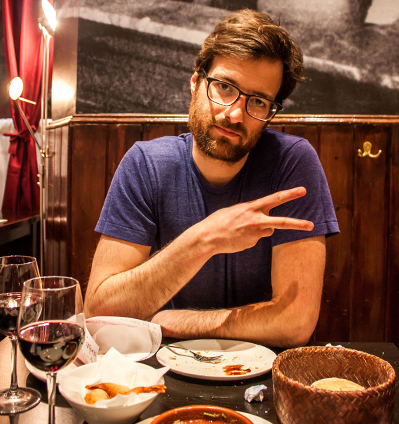
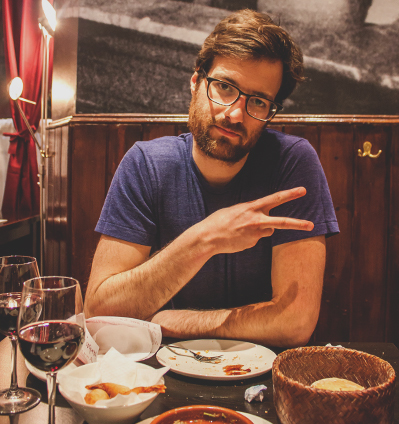
swapped arin desktop photo

diff --git a/_posts/2017-03-18-Assorted-Logos.md b/_posts/2017-03-18-Assorted-Logos.md
@@ -27,7 +27,7 @@ Here's a collection of some brand identities I've worked on through the years.
 
 {{slide['startdesktop']}}
 
-<div><img src='{{ site.url }}/assets/images/posts/Assorted_Logos/arin-1@2x.png' srcset='{{ site.url }}/assets/images/posts/Assorted_Logos/arin-1.png 634w, {{ site.url }}/assets/images/posts/Assorted_Logos/arin-1@2x.png 1268w, {{ site.url }}/assets/images/posts/Assorted_Logos/arin-1@3x.png 1902w'></div>
+<div><img src='{{ site.url }}/assets/images/posts/Assorted_Logos/arin-1@2x.jpg' srcset='{{ site.url }}/assets/images/posts/Assorted_Logos/arin-1.jpg 634w, {{ site.url }}/assets/images/posts/Assorted_Logos/arin-1@2x.jpg 1268w, {{ site.url }}/assets/images/posts/Assorted_Logos/arin-1@3x.jpg 1902w'></div>
 
 <div class='row'>
 
